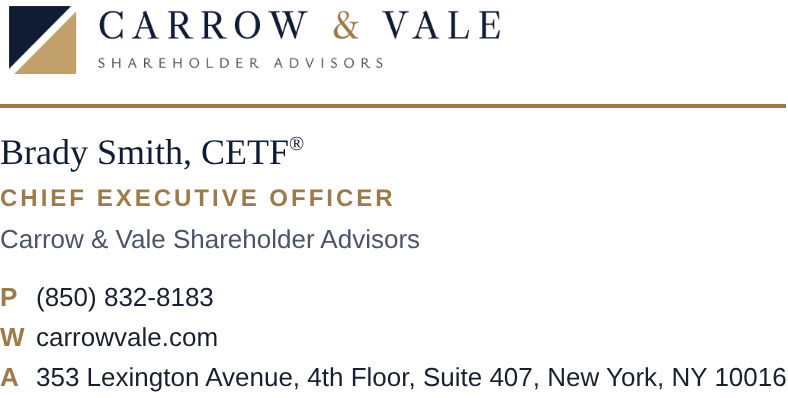
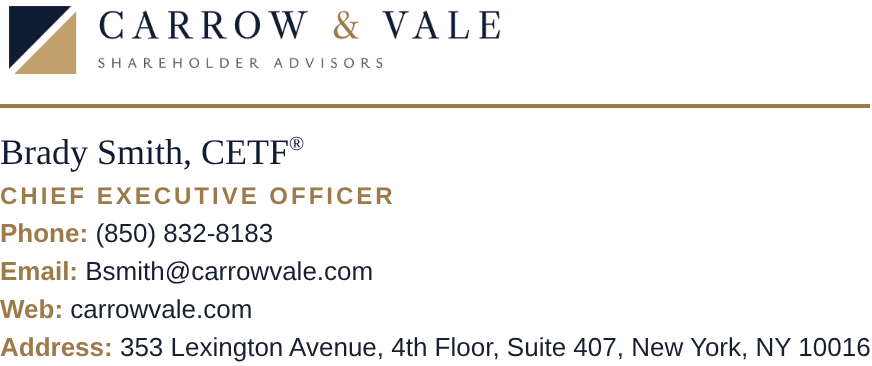
Email signature: name, title, then Phone, Email, Web and Address on consecutive lines
Claude-Session: https://claude.ai/code/session_01XxJmbg45ft458R18eVN2W2

diff --git a/website/email-signature/signature-outlook.html b/website/email-signature/signature-outlook.html
@@ -13,17 +13,13 @@
     </td>
   </tr>
   <tr>
-    <td style="padding:10px 0 0 0;border-top:2px solid #9C7A4A;">
-      <p style="margin:0;font-family:Georgia,'Times New Roman',serif;font-size:18px;line-height:24px;color:#101C33;">Brady Smith, CETF<sup style="font-size:10px;line-height:0;">&reg;</sup></p>
-      <p style="margin:2px 0 0 0;font-size:12px;line-height:18px;letter-spacing:1.5px;text-transform:uppercase;color:#9C7A4A;font-weight:bold;">Chief Executive Officer</p>
-      <p style="margin:2px 0 0 0;font-size:13px;line-height:19px;color:#4B5466;">Carrow &amp; Vale Shareholder Advisors</p>
-    </td>
-  </tr>
-  <tr>
-    <td style="padding:10px 0 0 0;font-size:13px;line-height:20px;color:#18202F;">
-      <span style="display:inline-block;width:18px;color:#9C7A4A;font-weight:bold;">P</span><a href="tel:+18508328183" style="color:#18202F;text-decoration:none;">(850) 832-8183</a><br>
-      <span style="display:inline-block;width:18px;color:#9C7A4A;font-weight:bold;">W</span><a href="https://www.carrowvale.com" style="color:#18202F;text-decoration:none;">carrowvale.com</a><br>
-      <span style="display:inline-block;width:18px;color:#9C7A4A;font-weight:bold;">A</span><span style="color:#18202F;">353 Lexington Avenue, 4th Floor, Suite 407, New York, NY 10016</span>
+    <td style="padding:10px 0 0 0;border-top:2px solid #9C7A4A;font-size:13px;line-height:19px;color:#18202F;">
+      <span style="font-family:Georgia,'Times New Roman',serif;font-size:18px;line-height:24px;color:#101C33;">Brady Smith, CETF<sup style="font-size:10px;line-height:0;">&reg;</sup></span><br>
+      <span style="font-size:12px;line-height:18px;letter-spacing:1.5px;text-transform:uppercase;color:#9C7A4A;font-weight:bold;">Chief Executive Officer</span><br>
+      <span style="color:#9C7A4A;font-weight:bold;">Phone:</span> <a href="tel:+18508328183" style="color:#18202F;text-decoration:none;">(850) 832-8183</a><br>
+      <span style="color:#9C7A4A;font-weight:bold;">Email:</span> <a href="mailto:bsmith@carrowvale.com" style="color:#18202F;text-decoration:none;">Bsmith@carrowvale.com</a><br>
+      <span style="color:#9C7A4A;font-weight:bold;">Web:</span> <a href="https://www.carrowvale.com" style="color:#18202F;text-decoration:none;">carrowvale.com</a><br>
+      <span style="color:#9C7A4A;font-weight:bold;">Address:</span> 353 Lexington Avenue, 4th Floor, Suite 407, New York, NY 10016
     </td>
   </tr>
 </table>

diff --git a/website/email-signature/signature.html b/website/email-signature/signature.html
@@ -13,17 +13,13 @@
     </td>
   </tr>
   <tr>
-    <td style="padding:10px 0 0 0;border-top:2px solid #9C7A4A;">
-      <p style="margin:0;font-family:Georgia,'Times New Roman',serif;font-size:18px;line-height:24px;color:#101C33;">Brady Smith, CETF<sup style="font-size:10px;line-height:0;">&reg;</sup></p>
-      <p style="margin:2px 0 0 0;font-size:12px;line-height:18px;letter-spacing:1.5px;text-transform:uppercase;color:#9C7A4A;font-weight:bold;">Chief Executive Officer</p>
-      <p style="margin:2px 0 0 0;font-size:13px;line-height:19px;color:#4B5466;">Carrow &amp; Vale Shareholder Advisors</p>
-    </td>
-  </tr>
-  <tr>
-    <td style="padding:10px 0 0 0;font-size:13px;line-height:20px;color:#18202F;">
-      <span style="display:inline-block;width:18px;color:#9C7A4A;font-weight:bold;">P</span><a href="tel:+18508328183" style="color:#18202F;text-decoration:none;">(850) 832-8183</a><br>
-      <span style="display:inline-block;width:18px;color:#9C7A4A;font-weight:bold;">W</span><a href="https://www.carrowvale.com" style="color:#18202F;text-decoration:none;">carrowvale.com</a><br>
-      <span style="display:inline-block;width:18px;color:#9C7A4A;font-weight:bold;">A</span><span style="color:#18202F;">353 Lexington Avenue, 4th Floor, Suite 407, New York, NY 10016</span>
+    <td style="padding:10px 0 0 0;border-top:2px solid #9C7A4A;font-size:13px;line-height:19px;color:#18202F;">
+      <span style="font-family:Georgia,'Times New Roman',serif;font-size:18px;line-height:24px;color:#101C33;">Brady Smith, CETF<sup style="font-size:10px;line-height:0;">&reg;</sup></span><br>
+      <span style="font-size:12px;line-height:18px;letter-spacing:1.5px;text-transform:uppercase;color:#9C7A4A;font-weight:bold;">Chief Executive Officer</span><br>
+      <span style="color:#9C7A4A;font-weight:bold;">Phone:</span> <a href="tel:+18508328183" style="color:#18202F;text-decoration:none;">(850) 832-8183</a><br>
+      <span style="color:#9C7A4A;font-weight:bold;">Email:</span> <a href="mailto:bsmith@carrowvale.com" style="color:#18202F;text-decoration:none;">Bsmith@carrowvale.com</a><br>
+      <span style="color:#9C7A4A;font-weight:bold;">Web:</span> <a href="https://www.carrowvale.com" style="color:#18202F;text-decoration:none;">carrowvale.com</a><br>
+      <span style="color:#9C7A4A;font-weight:bold;">Address:</span> 353 Lexington Avenue, 4th Floor, Suite 407, New York, NY 10016
     </td>
   </tr>
 </table>
